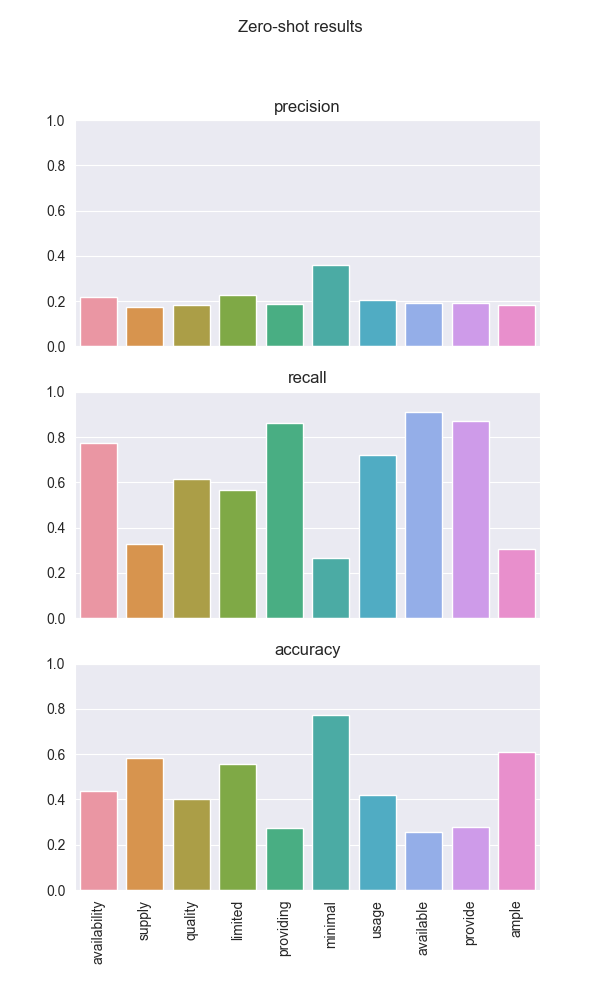
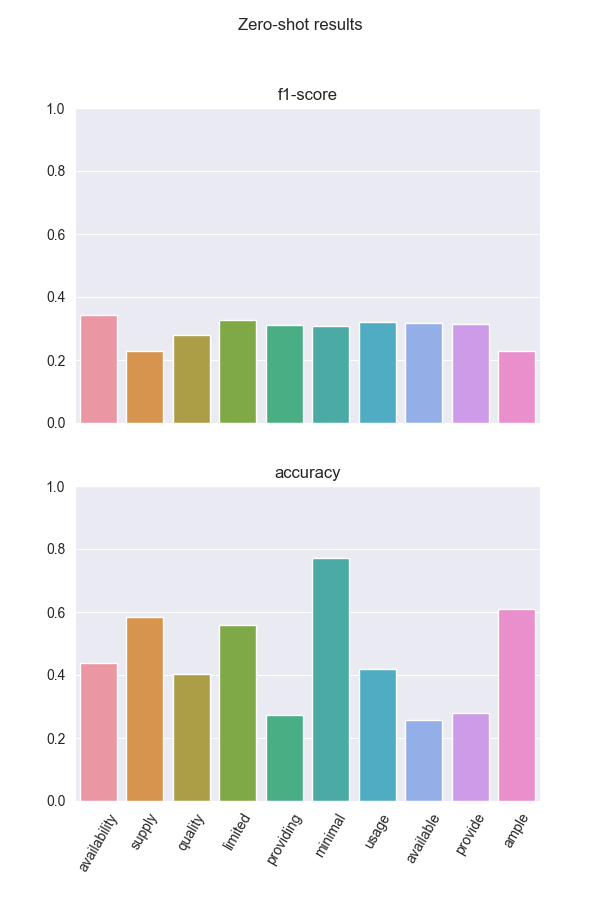
display f1 score in 0shot results

diff --git a/src/visualisation/zero_shot.py b/src/visualisation/zero_shot.py
@@ -8,7 +8,7 @@ FIGURES_DIR = 'figures'
 
 def visualise_per_class_performance(
   config, 
-  metrics=['precision', 'recall', 'accuracy'],
+  metrics=['f1-score', 'accuracy'],
   filename='valid_results'):
   sns.set_palette(sns.color_palette("Set2"))
   results_path = os.path.join(config.results_dir, f'{filename}.pkl')
@@ -22,7 +22,7 @@ def visualise_per_class_performance(
       print(labels)
     else:
       labels = config.class_names
-    fig, axes = plt.subplots(3,1, figsize=(6, 10))
+    fig, axes = plt.subplots(len(metrics),1, figsize=(6, 9))
     for metric, ax in zip(metrics, axes.flatten()):
       metric_results = []
       for label in labels:
@@ -52,6 +52,6 @@ def visualise_per_class_performance(
     print(f'sum & {clicks_preannotation} & {clicks_no_preannotation}')
 
     ax.set_xticklabels(labels)
-    ax.tick_params(axis='x', rotation=90)
+    ax.tick_params(axis='x', rotation=60)
     plt.suptitle('Zero-shot results')
     plt.savefig(os.path.join(config.results_dir, FIGURES_DIR, f'all_metrics_{filename}.png'))
